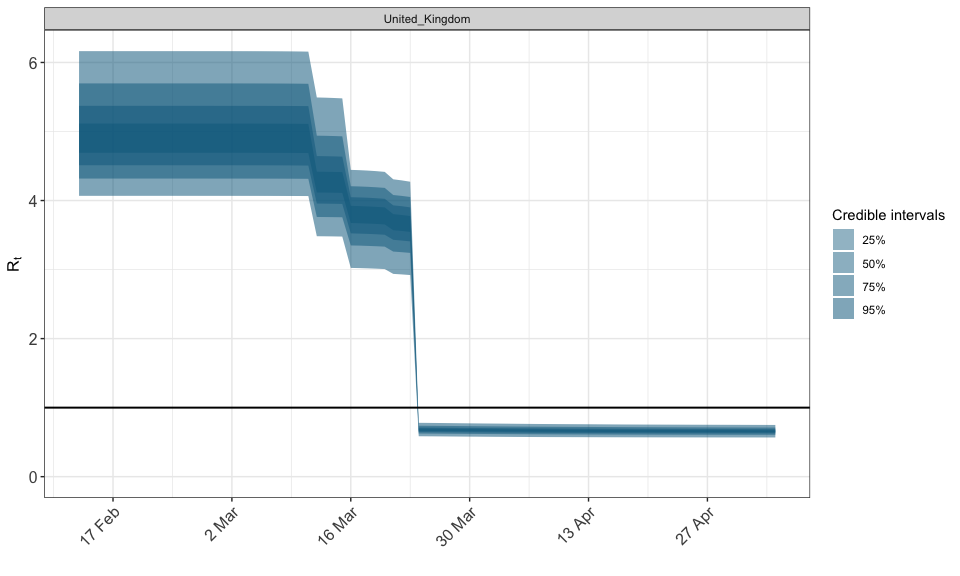
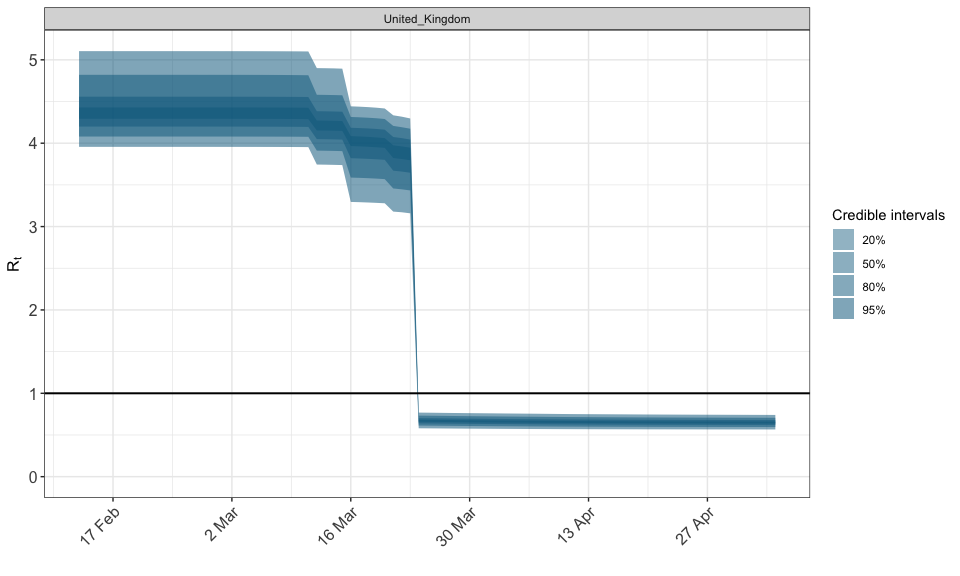
Updated index.md

diff --git a/index.md b/index.md
@@ -12,21 +12,28 @@ package has been inspired by, and has borrowed from,
 epidemia uses [rstan](https://mc-stan.org/rstan/) (Stan Development Team
 2020) as the backend for fitting models.
 
-This is an early beta release of the package. If you are interested in
-taking part in beta testing, please [fill out this form](https://forms.gle/PT4JtLs4e3KdLkdp7).
-
 ## Disclaimer
 
-As a beta release, there will be regular updates with additional
-features and more extensive testing. Any feedback is greatly appreciated
-- in particular if you find bugs, find the documentation unclear, or
-have feature requests, please report them
+This is an early beta release of the package. As a beta release, there
+will be regular updates with additional features and more extensive
+testing. Any feedback is greatly appreciated - in particular if you find
+bugs, find the documentation unclear, or have feature requests, please
+report them
 [here](https://github.com/ImperialCollegeLondon/epidemia/issues).
+
+This version of epidemia could be subject to future changes to the
+interface.
 
 ## Installation
 
-Once you have access to the repository, clone it and install from
-source. We recommend avoiding installation of any vignettes as these are
+The latest development version of the package can be installed using
+
+``` r
+#install.packages(devtools)
+devtools::install_github("ImperialCollegeLondon/epidemia")
+```
+
+Vignettes are not currently included in the package because they are
 computationally demanding, and are best viewed online.
 
 ## Getting Started
@@ -38,7 +45,7 @@ The best way to get started is to read the
     epidemia](articles/introduction.html) is the main vignette,
     introducing the model framework and the primary model fitting
     function `epim`.
-  - [Using Priors](articles/priors.html) gives important details behind 
+  - [Using Priors](articles/priors.html) gives important details behind
     using prior distributions for model paramters.
   - [Incidence Only](articles/IncidenceOnly.html) gives examples of
     fitting models using only incidence data and a discrete serial
@@ -47,7 +54,8 @@ The best way to get started is to read the
     how to model weekly changes in the reproduction number as a random
     walk.
   - [Resolving Problems](articles/ResolvingProblems.html) will
-    demonstrate how to resolve common computational problems when using the package.
+    demonstrate how to resolve common computational problems when using
+    the package.
 
 ## Usage
 
@@ -67,13 +75,16 @@ args$prior <- shifted_gamma(shape = 1/6, scale = 1, shift = -log(1.05)/6)
 fit <- do.call("epim", args)
 ```
 
-![](reference/figures/plot-1.png)
-
 ``` r
 # Inspect Rt
-plot_rt(fit, group = "United_Kingdom", levels = c(25,50,75,95))
-# And deaths
-plot_obs(fit, type = "deaths", group = "United_Kingdom", levels = c(25,50,75,95))
+plot_rt(fit, group = "United_Kingdom", levels = c(20,50,80,95))
 ```
 
-![](reference/figures/plot-2.png)
+![](reference/figures/plot-1.png)<!-- -->
+
+``` r
+# And deaths
+plot_obs(fit, type = "deaths", group = "United_Kingdom", levels = c(20,50,80,95))
+```
+
+![](reference/figures/plot-2.png)<!-- -->

diff --git a/NEWS.md b/NEWS.md
@@ -1,6 +1,7 @@
 
 # epidemia 0.5.2
-* Passes R CMD Check with no notes or warnings
+* Passes R CMD Check with no warnings
+* Updated installation instructions
 
 # epidemia 0.5.1
 * Renamed stan files to avoid errors with Rstan 2.12.
